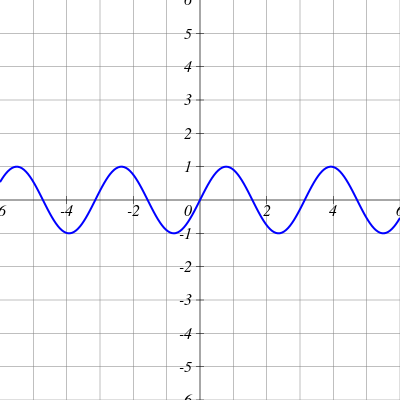
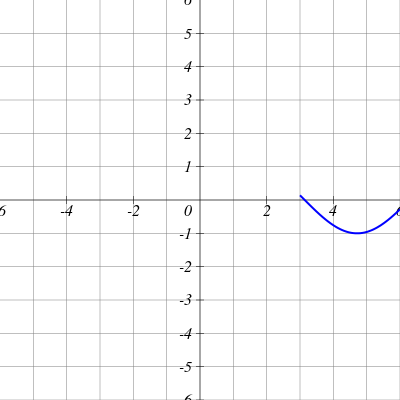
changes made: pythonsvg.py: plot() fixed bug when  x_max < x_min

diff --git a/pythonSVG_server/public_html/script.js b/pythonSVG_server/public_html/script.js
@@ -13,7 +13,7 @@ Date: 10th September 2012
 function xmlhttpPost(image_format) {
 	  var xmlHttpReq = false;
 	  var self = this;
-		var input_code = String(document.getElementById("picture1input").value);
+		var input_code = String(encodeURIComponent(document.getElementById("picture1input").value));
 	  // Mozilla/Safari
 	  if (window.XMLHttpRequest) {
 	      self.xmlHttpReq = new XMLHttpRequest();

diff --git a/pythonSVG_server/public_html/cgi-bin/pythonsvg.py b/pythonSVG_server/public_html/cgi-bin/pythonsvg.py
@@ -1,5 +1,3 @@
-#!/usr/bin/python
-
 from __future__ import division
 import math
 from lxml import etree
@@ -7,6 +5,8 @@ import cairo
 import rsvg
 import re
 import sys
+
+# ===================================================================================	
 
 class mySvgCanvas:
 
@@ -925,6 +925,8 @@ class mySvgCanvas:
 
 		x_min = (x_min == None and self.loc_var["xmin"] or x_min)
 		x_max = (x_max == None and self.loc_var["xmax"] or x_max)
+		if (x_max <= x_min):
+			x_max = x_min + 5
 		array_points = []
 
 		# plot ("sin(x)") 
@@ -1028,6 +1030,28 @@ class mySvgCanvas:
 					u = dz/math.sqrt(1 + gout*gout)
 					v = gout * u
 					self.line([round(x-u,2),round(y-v,2)],[round(x+u,2),round(y+v,2)])
+
+# ========================================================================================
+
+	'''
+	==============================
+	Functions (SVG -> PNG)
+	==============================
+	> create_png
+	============================== 
+	'''
+# ========================================================================================
+
+def create_png(filename, width, height, svg_string):
+
+	# Source: http://cairographics.org/download/
+	# Example Code: http://stackoverflow.com/questions/6589358/convert-svg-to-png-in-python
+
+	img =  cairo.ImageSurface(cairo.FORMAT_ARGB32, width, height)
+	ctx = cairo.Context(img)
+	handler= rsvg.Handle(None, svg_string)
+	handler.render_cairo(ctx)
+	img.write_to_png(filename+".png")
 
 # ========================================================================================
 

diff --git a/pythonSVG_server/public_html/cgi-bin/processor.py b/pythonSVG_server/public_html/cgi-bin/processor.py
@@ -8,18 +8,19 @@ from pythonsvg import *
 
 import cgi, os
 import cgitb; cgitb.enable()
+import urllib
 
 form = cgi.FieldStorage()
 
 # Get data from fields
 if ('svg' in form):
-	ascii_text = form.getvalue('svg')
+	ascii_text = urllib.unquote(form.getvalue('svg').encode('ascii')).decode('utf-8')
 	my_svg = mySvgCanvas("test", 400, 400) # default size of SVG
 	my_svg.process_ascii_multi_line(ascii_text)
 	output = my_svg.generate_string()
 
 elif ('png' in form):
-	ascii_text = form.getvalue('png')
+	ascii_text = urllib.unquote(form.getvalue('png').encode('ascii')).decode('utf-8')
 	my_svg = mySvgCanvas("test", 400, 400) # default size of SVG
 	my_svg.process_ascii_multi_line(ascii_text)
 	svg_string = my_svg.generate_string()

diff --git a/pythonSVG/pythonsvg.py b/pythonSVG/pythonsvg.py
@@ -925,6 +925,8 @@ class mySvgCanvas:
 
 		x_min = (x_min == None and self.loc_var["xmin"] or x_min)
 		x_max = (x_max == None and self.loc_var["xmax"] or x_max)
+		if (x_max <= x_min):
+			x_max = x_min + 5
 		array_points = []
 
 		# plot ("sin(x)") 
